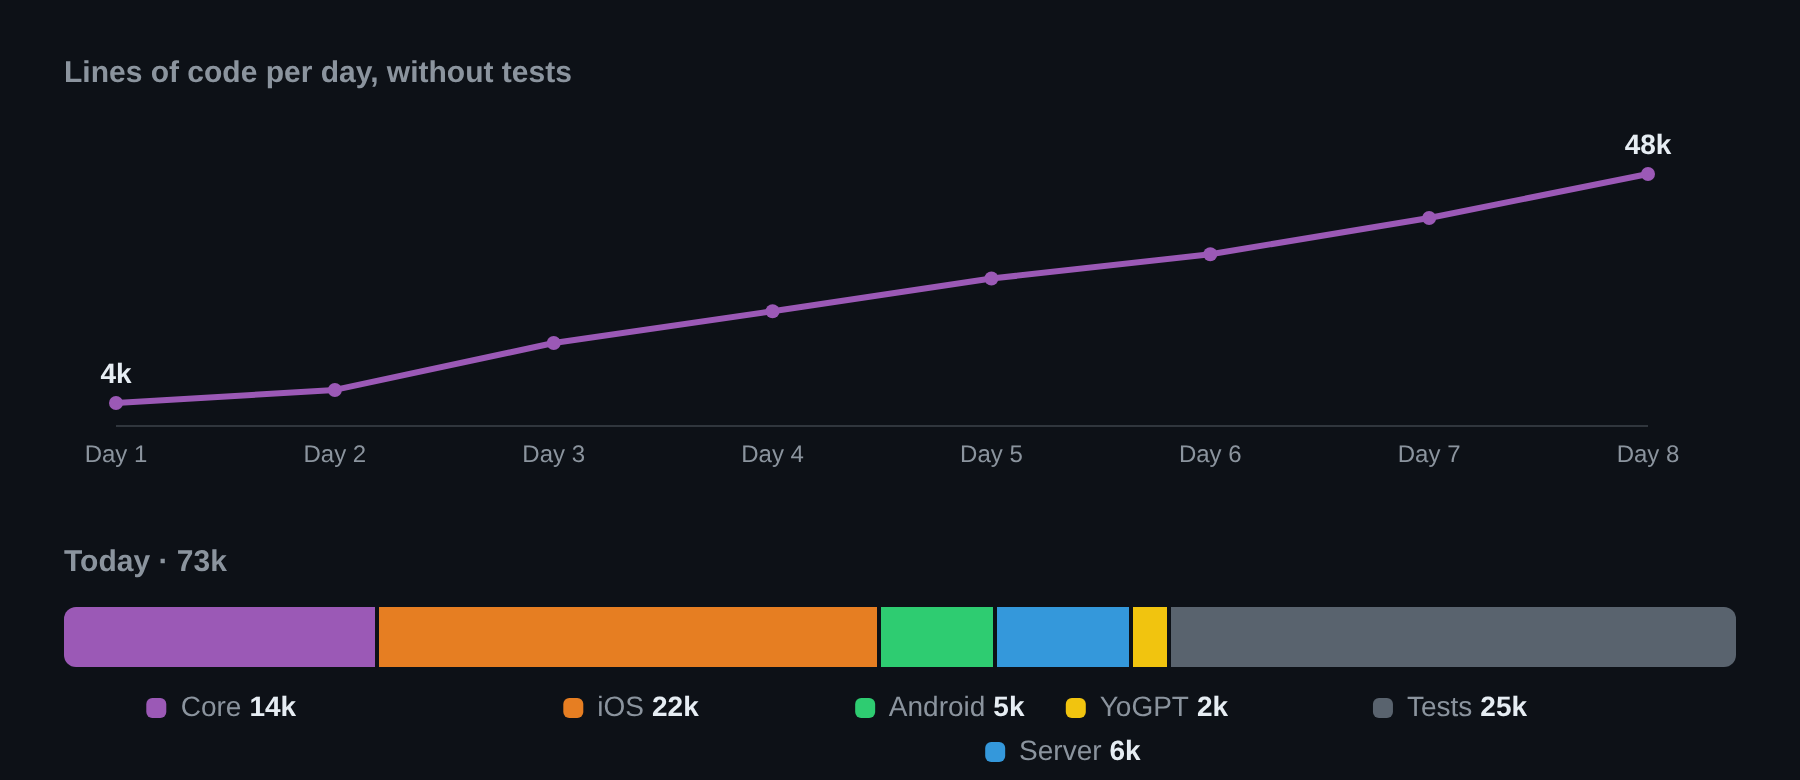
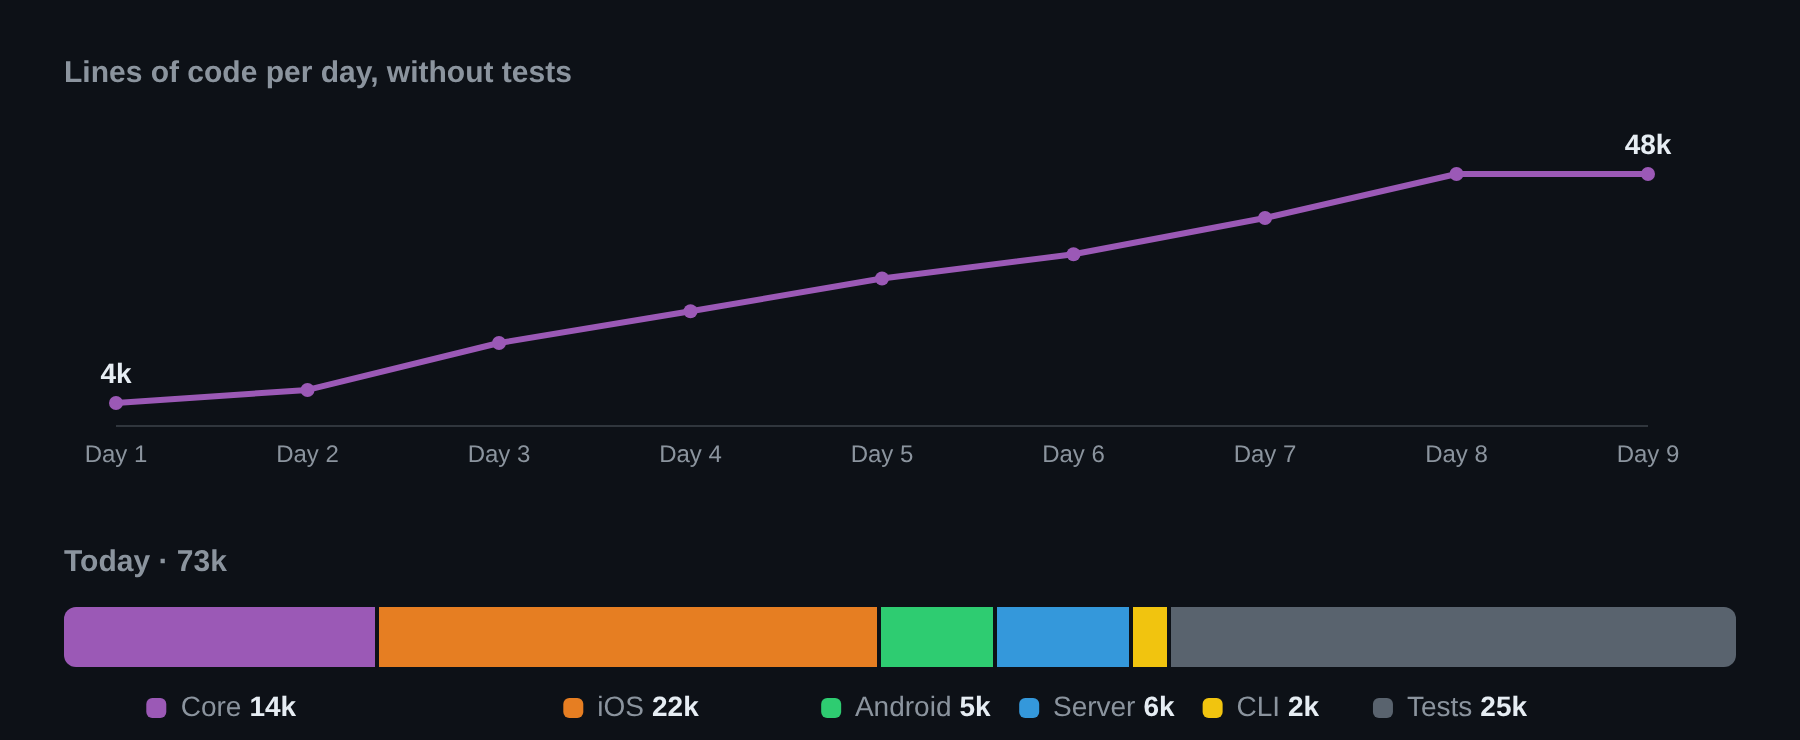
Code chart: labels in one row, pushed apart only as far as needed; YoGPT shown as CLI

diff --git a/dev/loc-chart.html b/dev/loc-chart.html
@@ -5,7 +5,7 @@ h3{font-weight:600;font-size:15px;color:#8b949e;margin-bottom:14px}
 section{margin-bottom:30px}
 svg text{fill:#8b949e;font:12px -apple-system,system-ui,sans-serif}
 .bar{display:flex;height:30px;border-radius:6px;overflow:hidden;gap:2px;margin-bottom:12px}
-.leg{position:relative;height:44px;font-size:14px;color:#8b949e}.leg span{position:absolute;white-space:nowrap;transform:translateX(-50%)}.leg b{color:#e6edf3;font-weight:600;margin-left:4px}
+.leg{position:relative;height:22px;font-size:14px;color:#8b949e}.leg span{position:absolute;white-space:nowrap;transform:translateX(-50%)}.leg b{color:#e6edf3;font-weight:600;margin-left:4px}
 .dot{display:inline-block;width:10px;height:10px;border-radius:3px;margin-right:7px;vertical-align:-1px}
 </style></head><body>
 <section><h3>Lines of code per day, without tests</h3><svg id="line" width="836" height="180"></svg></section>
@@ -20,15 +20,21 @@ const last=D.days.length-1;
 D.days.forEach((v,i)=>{s+=`<circle cx="${x(i)}" cy="${y(v)}" r="3.5" fill="#9b59b6"/><text x="${x(i)}" y="${H-8}" text-anchor="middle">Day ${i+1}</text>`;
  if(i==0||i==last)s+=`<text x="${x(i)}" y="${y(v)-10}" text-anchor="middle" style="fill:#e6edf3;font-weight:600;font-size:14px">${k(v)}</text>`});
 document.getElementById('line').innerHTML=s;
-const C={Core:'#9b59b6',iOS:'#e67e22',Android:'#2ecc71',Server:'#3498db',YoGPT:'#f1c40f',Tests:'#59636e'};
+const C={Core:'#9b59b6',iOS:'#e67e22',Android:'#2ecc71',Server:'#3498db',CLI:'#f1c40f',Tests:'#59636e'};
 const t=D.parts.reduce((a,[,v])=>a+v,0);
 document.getElementById('h').textContent=`Today · ${k(t)}`;
 document.getElementById('bar').innerHTML=D.parts.map(([n,v])=>`<i style="flex:${v};background:${C[n]}"></i>`).join('');
-const leg=document.getElementById('leg');let at=0;const rows=[[],[]];
-// Each label centred under its own part; a label that would touch its neighbour drops to the second row.
-D.parts.forEach(([n,v])=>{const mid=(at+v/2)/t*836;at+=v;const e=document.createElement('span');
+const leg=document.getElementById('leg'),BW=836,G=14;let at=0;
+// One row of labels, each as close to the middle of its part as the others allow: overlapping neighbours push
+// each other apart by half the overlap until none touch, and the row is kept inside the bar.
+const P=D.parts.map(([n,v])=>{const e=document.createElement('span');
  e.innerHTML=`<i class="dot" style="background:${C[n]}"></i>${n}<b>${k(v)}</b>`;leg.appendChild(e);
- const w=e.offsetWidth,c=Math.min(Math.max(mid,w/2),836-w/2),l=c-w/2,r=c+w/2;
- const row=rows[0].some(([a,b])=>l<b+12&&r>a-12)?1:0;rows[row].push([l,r]);
- e.style.left=c+'px';e.style.top=row*22+'px'});
+ const mid=(at+v/2)/t*BW;at+=v;return{e,w:e.offsetWidth,c:mid}});
+for(let pass=0;pass<200;pass++){let moved=false;
+ for(let i=1;i<P.length;i++){const a=P[i-1],b=P[i],o=(a.c+a.w/2+G)-(b.c-b.w/2);if(o>0.1){a.c-=o/2;b.c+=o/2;moved=true}}
+ P[0].c=Math.max(P[0].c,P[0].w/2);const z=P[P.length-1];z.c=Math.min(z.c,BW-z.w/2);
+ for(let i=1;i<P.length;i++)P[i].c=Math.max(P[i].c,P[i-1].c+P[i-1].w/2+G+P[i].w/2);
+ for(let i=P.length-2;i>=0;i--)P[i].c=Math.min(P[i].c,P[i+1].c-P[i+1].w/2-G-P[i].w/2);
+ if(!moved)break}
+P.forEach(x=>x.e.style.left=x.c+'px');
 </script></body></html>

diff --git a/dev/loc-chart.py b/dev/loc-chart.py
@@ -123,7 +123,7 @@ def main():
     apps = app_counts()
     data = {"days": [code(c) for _, c in points],
             "parts": [["Core", today["Core"]], ["iOS", apps["iOS"]], ["Android", apps["Android"]],
-                      ["Server", today["Hub"] + today["Admin"]], ["YoGPT", apps["YoGPT"]], ["Tests", today["Tests"]]]}
+                      ["Server", today["Hub"] + today["Admin"]], ["CLI", apps["YoGPT"]], ["Tests", today["Tests"]]]}
     page = (ROOT / "dev" / "loc-chart.html").read_text().replace("DATA", json.dumps(data))
     browser = shutil.which("chromium") or shutil.which("google-chrome-stable") or shutil.which("google-chrome")
     if not browser:
@@ -133,7 +133,7 @@ def main():
         html.write_text(page)
         out = ROOT / "dev" / "loc-chart.png"
         subprocess.run([browser, "--headless=new", "--disable-gpu", "--hide-scrollbars",
-                        "--force-device-scale-factor=2", "--window-size=900,390", f"--screenshot={out}", str(html)],
+                        "--force-device-scale-factor=2", "--window-size=900,370", f"--screenshot={out}", str(html)],
                        check=True, capture_output=True, timeout=60)
     readme = ROOT / "README.md"
     text = readme.read_text()
